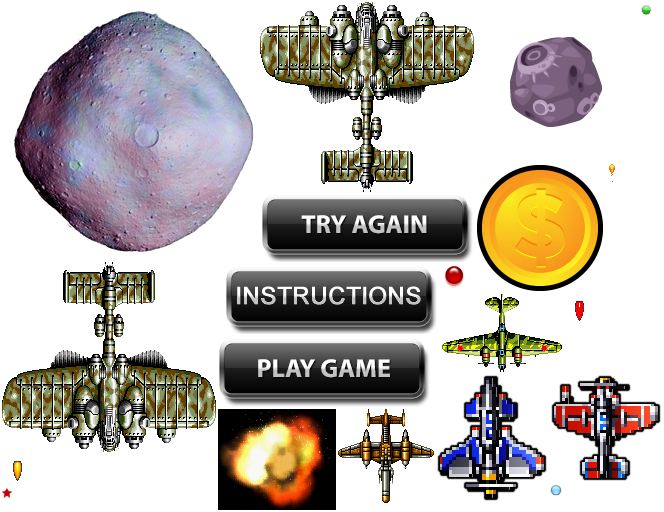
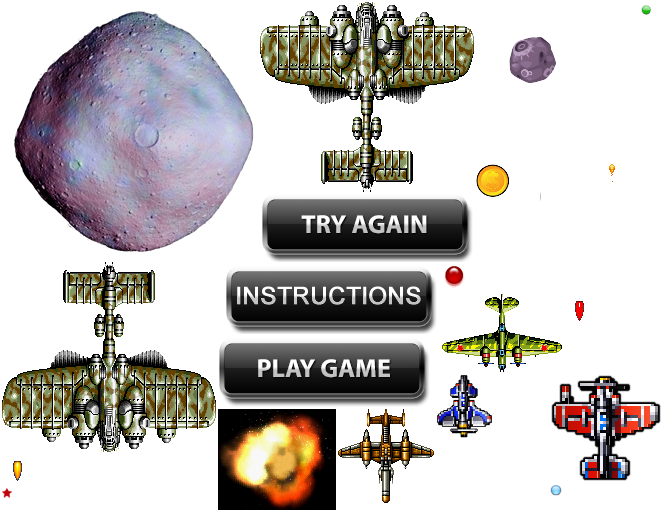
Fix "coin" "plane2" &"meteorolite2" size in "asset.ts"&"atlas.png"

Changed region(s): [[0.6928, 0.3125, 0.9337, 0.5938], [0.6627, 0.7188, 0.8434, 1.0], [0.753, 0.0625, 0.9036, 0.25]]

diff --git a/WebFianlProject/Scripts/objects/coin.js b/WebFianlProject/Scripts/objects/coin.js
@@ -1,10 +1,11 @@
 /**
-Game Name: Car Crash
-Name: Zifeng Xu
-Last Modify by: Zifeng
-Date Last Modified: 2014, Nov.15th
-Description: This is a car crash game. Hit the rasberry to earn 100 points. Hit the bomb will lose one live.
+Game Name: Plane Crash
+Name: Zifeng Xu, RenFa Feng
+Last Modify by: Zifeng Xu, RenFa Feng
+Date Last Modified: 2014, Dec.9th
+Description: This is a plan crash game.Hit the enemy to earn 10 points.Be Hit will lose one live.
 Rivision History: see https://github.com/ZifengX/FinalProject.git
+https://github.com/BladeWork/FinalProject
 **/
 /// <reference path="../managers/asset.ts" />
 var objects;
@@ -17,8 +18,9 @@ var objects;
             this.image = new createjs.Sprite(managers.Assets.atlas, "coin");
             this.width = this.image.getBounds().width;
             this.height = this.image.getBounds().height;
-            this.image.regX = this.width / 2;
-            this.image.regY = this.height / 2;
+            this.image.regX = this.width / 3;
+            this.image.regY = this.height / 3;
+
             this.reset();
 
             this.dy = 5;

diff --git a/WebFianlProject/Scripts/managers/asset.ts b/WebFianlProject/Scripts/managers/asset.ts
@@ -34,16 +34,16 @@ module managers {
             [606, 164, 12, 18],
             [638, 2, 16, 16],
             [564, 294, 32, 32],
-            [476, 164, 128, 128],
+            [476, 164, 32, 32],
             [2, 262, 214, 190],
             [338, 409, 96, 94],
             [442, 294, 120, 78],
             [218, 409, 118, 101],
             [218, 264, 222, 70],
             [2, 2, 256, 258],
-            [476, 2, 160, 160],
+            [509, 37, 46, 45],
             [550, 374, 112, 108],
-            [436, 374, 112, 129],
+            [436, 374, 56, 64],
             [260, 2, 214, 190],
             [218, 336, 212, 71],
             [2, 488, 10, 10]

diff --git a/WebFianlProject/Scripts/managers/asset.js b/WebFianlProject/Scripts/managers/asset.js
@@ -32,16 +32,16 @@ var managers;
             [606, 164, 12, 18],
             [638, 2, 16, 16],
             [564, 294, 32, 32],
-            [476, 164, 128, 128],
+            [476, 164, 32, 32],
             [2, 262, 214, 190],
             [338, 409, 96, 94],
             [442, 294, 120, 78],
             [218, 409, 118, 101],
             [218, 264, 222, 70],
             [2, 2, 256, 258],
-            [476, 2, 160, 160],
+            [509, 37, 46, 45],
             [550, 374, 112, 108],
-            [436, 374, 112, 129],
+            [436, 374, 56, 64],
             [260, 2, 214, 190],
             [218, 336, 212, 71],
             [2, 488, 10, 10]

diff --git a/WebFianlProject/Scripts/objects/coin.ts b/WebFianlProject/Scripts/objects/coin.ts
@@ -24,8 +24,9 @@ module objects {
             this.image = new createjs.Sprite(managers.Assets.atlas, "coin");
             this.width = this.image.getBounds().width;
             this.height = this.image.getBounds().height;
-            this.image.regX = this.width / 2;
-            this.image.regY = this.height / 2;
+            this.image.regX = this.width / 3;
+            this.image.regY = this.height / 3;
+
             this.reset();
 
             this.dy = 5;

diff --git a/WebFianlProject/Scripts/objects/plane.ts b/WebFianlProject/Scripts/objects/plane.ts
@@ -22,9 +22,6 @@ module objects {
             this.game = game;
             this.y = 600;
 
-            this.scaleX = 0.5;
-            this.scaleY = 0.5;
-
             game.addChild(this);
             this.engineSound = createjs.Sound.play('engine', createjs.Sound.INTERRUPT_NONE, 0, 0, -1, 1, 0);
         }

diff --git a/WebFianlProject/Scripts/objects/plane.js b/WebFianlProject/Scripts/objects/plane.js
@@ -25,9 +25,6 @@ var objects;
             this.game = game;
             this.y = 600;
 
-            this.scaleX = 0.5;
-            this.scaleY = 0.5;
-
             game.addChild(this);
             this.engineSound = createjs.Sound.play('engine', createjs.Sound.INTERRUPT_NONE, 0, 0, -1, 1, 0);
         }
